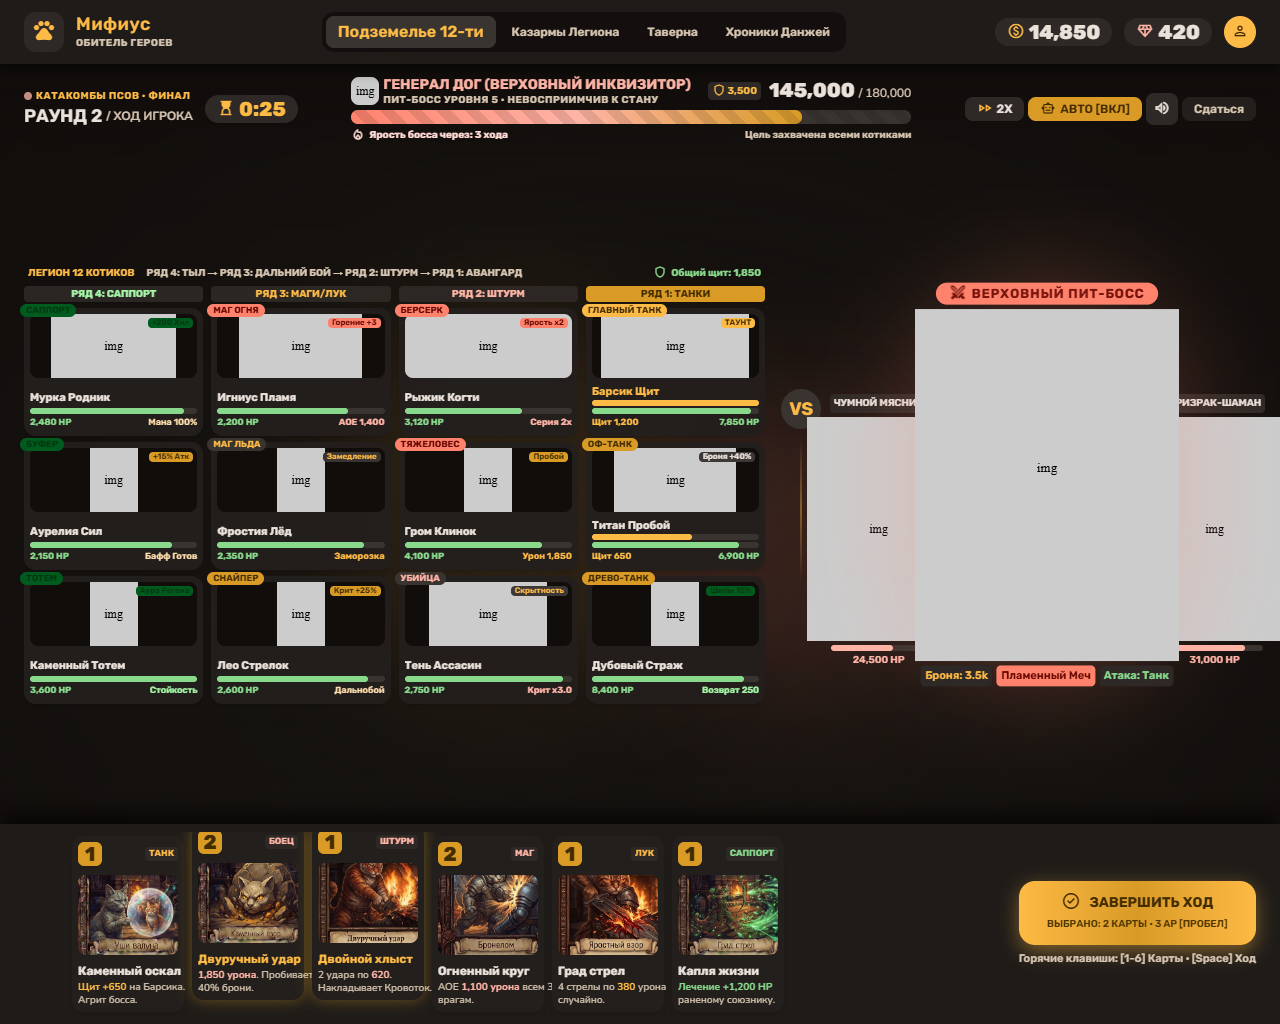
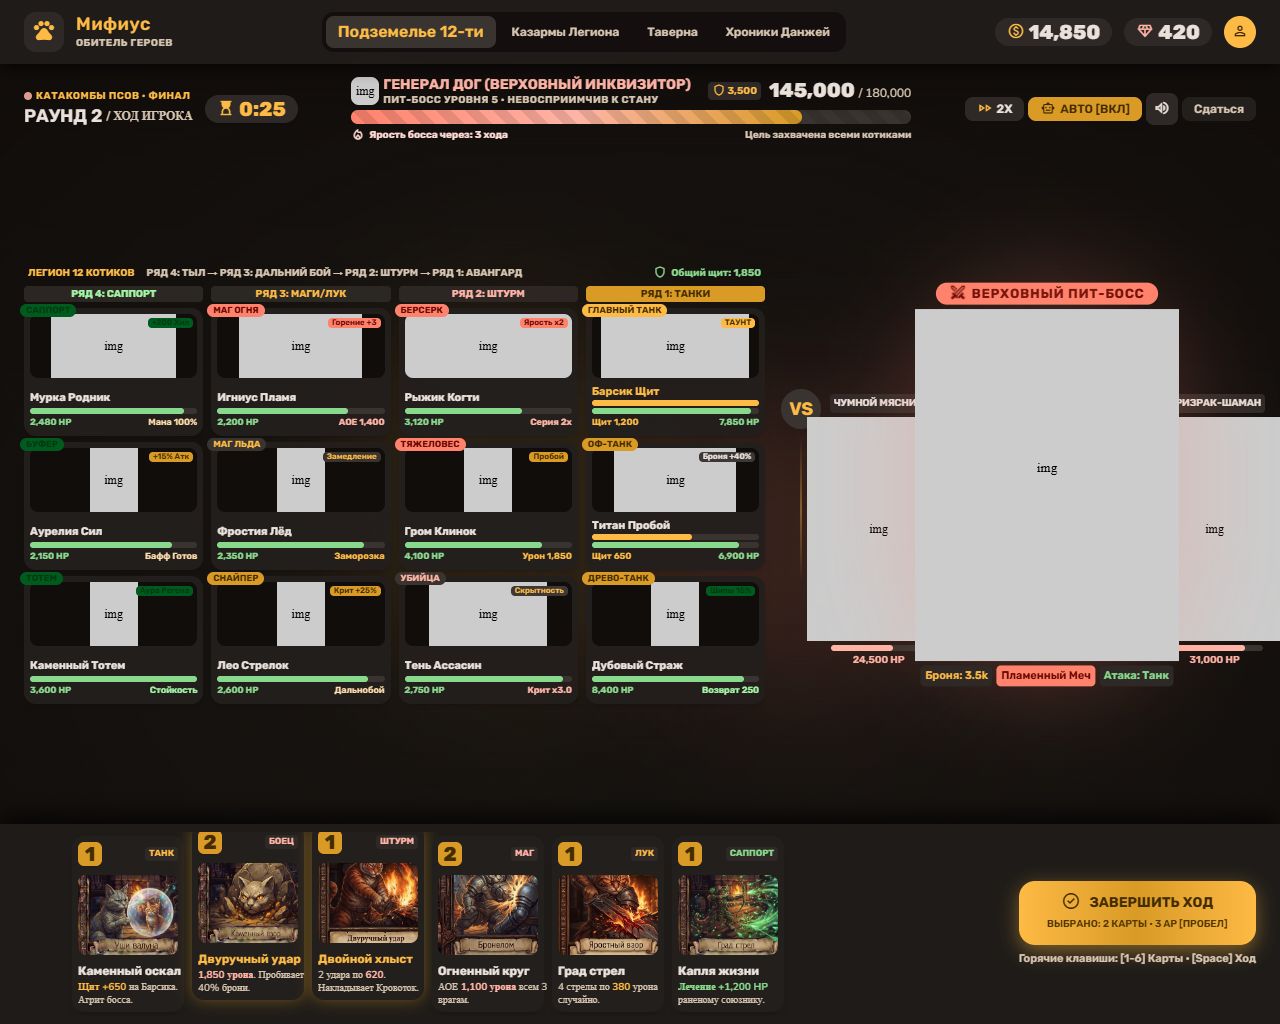
fix(web-hud): enlarge raid legion cards to stitch vertical plates
Match zip etalon: h-32-ish cards with tall art wells for cat cutouts.
Keep shared D-052 end-turn tray unchanged.

diff --git a/client/web-hud/public/styles.css b/client/web-hud/public/styles.css
@@ -5933,7 +5933,8 @@ body:has(#viewRaidBattle:not(.hidden)) #app {
 #viewRaidBattle .raid-battle-12-stage > .relative > main {
   flex: 1 1 auto;
   min-height: 0;
-  overflow: hidden;
+  overflow: auto;
+  align-items: stretch !important;
 }
 #viewRaidBattle .rb-foot.pv-foot {
   flex: 0 0 auto;
@@ -6050,30 +6051,35 @@ body:has(#viewRaidBattle:not(.hidden)) #app {
   gap: 0.55rem;
   width: 100%;
 }
-/* Stitch raid battle: 4 columns (тыл→даль→штурм→танки), painted by JS */
+/* Stitch raid battle: 4 columns · vertical plates (zip etalon h-32 / art h-16+) */
 #viewRaidBattle [data-raid-battle-board] {
   display: grid;
   grid-template-columns: repeat(4, minmax(0, 1fr));
-  gap: 0.35rem 0.4rem;
+  gap: 0.45rem 0.55rem;
   width: 100%;
-  max-width: 26rem;
   align-content: start;
+  /* Don't let tray height crush the 12 plates */
+  overflow-y: auto;
+  max-height: 100%;
+  padding-top: 0.35rem; /* room for role badges */
 }
 #viewRaidBattle .raid-hero-col {
   display: flex;
   flex-direction: column;
-  gap: 0.3rem;
+  gap: 0.45rem;
   min-width: 0;
+  flex-shrink: 0;
 }
 #viewRaidBattle .raid-hero-col-head {
-  padding: 0.15rem 0.35rem;
-  border-radius: 0.35rem;
+  flex: 0 0 auto;
+  padding: 0.2rem 0.4rem;
+  border-radius: 0.4rem;
   text-align: center;
-  font-size: 9px;
+  font-size: 10px;
   font-weight: 800;
   letter-spacing: 0.03em;
   text-transform: uppercase;
-  background: rgba(46, 41, 38, 0.9);
+  background: rgba(46, 41, 38, 0.92);
   color: #d5c4af;
   white-space: nowrap;
   overflow: hidden;
@@ -6089,56 +6095,92 @@ body:has(#viewRaidBattle:not(.hidden)) #app {
 #viewRaidBattle .raid-hero-card {
   position: relative;
   display: flex;
-  flex-direction: row;
-  align-items: center;
-  gap: 0.35rem;
-  padding: 0.28rem 0.35rem;
-  min-height: 2.55rem;
-  border-radius: 0.5rem;
-  background: rgba(26, 22, 19, 0.95);
-  border: 1px solid rgba(157, 143, 123, 0.35);
+  flex-direction: column;
+  justify-content: flex-start;
+  gap: 0.3rem;
+  padding: 0.45rem;
+  /* stitch h-32 — never shrink under the fight tray */
+  height: 8.5rem;
+  min-height: 8.5rem;
+  flex: 0 0 8.5rem;
+  box-sizing: border-box;
+  border-radius: 0.75rem;
+  background: rgba(35, 31, 28, 0.95);
+  border: 1px solid rgba(157, 143, 123, 0.28);
+  box-shadow: 0 4px 12px rgba(0, 0, 0, 0.35);
   color: #eae1db;
   cursor: pointer;
+  transition: transform 0.15s ease;
+}
+#viewRaidBattle .raid-hero-card:hover {
+  transform: scale(1.02);
 }
 #viewRaidBattle .raid-hero-card.is-tank {
   border-color: rgba(253, 186, 69, 0.45);
 }
 #viewRaidBattle .raid-hero-card.is-empty {
+  align-items: center;
   justify-content: center;
   border-style: dashed;
   color: #9d8f7b;
-  font-size: 10px;
-  min-height: 2.35rem;
+  font-size: 11px;
+  opacity: 0.7;
 }
 #viewRaidBattle .raid-hero-badge {
   position: absolute;
-  top: -0.35rem;
+  top: -0.3rem;
   left: -0.2rem;
   z-index: 2;
-  padding: 0.05rem 0.35rem;
+  padding: 0.1rem 0.4rem;
   border-radius: 999px;
-  font-size: 8px;
+  font-size: 9px;
   font-weight: 800;
   text-transform: uppercase;
   line-height: 1.2;
 }
+#viewRaidBattle .raid-hero-art-well {
+  position: relative;
+  width: 100%;
+  /* Bigger cat window than stitch h-16 — cats must read clearly */
+  flex: 1 1 auto;
+  min-height: 5rem;
+  height: 5.25rem;
+  border-radius: 0.5rem;
+  background: #110d0b;
+  overflow: hidden;
+  display: flex;
+  align-items: flex-end;
+  justify-content: center;
+}
 #viewRaidBattle .raid-hero-art {
-  width: 2.15rem;
-  height: 2.15rem;
-  flex: 0 0 auto;
+  height: 100%;
+  width: auto;
+  max-width: 92%;
   object-fit: contain;
   object-position: center bottom;
-  filter: drop-shadow(0 2px 4px rgba(0, 0, 0, 0.45));
+  filter: drop-shadow(0 3px 6px rgba(0, 0, 0, 0.5));
+}
+#viewRaidBattle .raid-hero-sub {
+  position: absolute;
+  top: 0.25rem;
+  right: 0.25rem;
+  padding: 0.05rem 0.3rem;
+  border-radius: 0.25rem;
+  background: rgba(46, 41, 38, 0.9);
+  color: #eae1db;
+  font-size: 8px;
+  line-height: 1.2;
+  text-transform: uppercase;
 }
 #viewRaidBattle .raid-hero-meta {
-  flex: 1 1 auto;
-  min-width: 0;
+  flex: 0 0 auto;
   display: flex;
   flex-direction: column;
-  gap: 0.12rem;
+  gap: 0.15rem;
+  min-width: 0;
 }
 #viewRaidBattle .raid-hero-meta > b {
-  font-size: 10px;
+  font-size: 11px;
   line-height: 1.15;
   white-space: nowrap;
   overflow: hidden;
@@ -6146,7 +6188,7 @@ body:has(#viewRaidBattle:not(.hidden)) #app {
 }
 #viewRaidBattle .raid-hero-hp {
   display: block;
-  height: 0.35rem;
+  height: 0.4rem;
   border-radius: 999px;
   background: #2a241c;
   overflow: hidden;
@@ -6157,10 +6199,17 @@ body:has(#viewRaidBattle:not(.hidden)) #app {
   background: linear-gradient(90deg, #4d9a55, #89d98c);
 }
 #viewRaidBattle .raid-hero-meta > em {
+  display: flex;
+  justify-content: space-between;
+  gap: 0.35rem;
   font-style: normal;
-  font-size: 8px;
+  font-size: 9px;
   color: #9d8f7b;
-  text-transform: uppercase;
+  text-transform: none;
+}
+#viewRaidBattle .raid-hero-meta > em .text-secondary {
+  color: #89d98c;
+  font-weight: 700;
 }
 .raid-form-row,
 .raid-battle-row {

diff --git a/client/web-hud/public/app.js b/client/web-hud/public/app.js
@@ -5815,6 +5815,7 @@ function renderRaidBattleStub() {
   if (bar) bar.style.width = "100%";
 
   // Column order matches Stitch: rear(support) → ranged → melee → front(tanks)
+  // Card chrome = stitch h-32 / art h-16 vertical plates (zip etalon); tray stays D-052.
   const cols = [
     { row: 3, head: "РЯД 4: САППОРТ", headClass: "is-support" },
     { row: 2, head: "РЯД 3: МАГИ/ЛУК", headClass: "is-ranged" },
@@ -5836,11 +5837,14 @@ function renderRaidBattleStub() {
           const tankish = s.role === "tank";
           return `<div class="raid-hero-card${tankish ? " is-tank" : ""}" data-row="${col.row}" data-col="${slotCol}" data-role="${s.role}" data-sub="${s.sub}" data-template="${s.templateId}">
             <span class="raid-hero-badge ${badge.tone}">${badge.label}</span>
-            <img class="raid-hero-art" alt="" src="${art}" decoding="async" loading="lazy"/>
+            <div class="raid-hero-art-well">
+              <img class="raid-hero-art" alt="" src="${art}" decoding="async" loading="lazy"/>
+              <span class="raid-hero-sub">${s.sub || s.role}</span>
+            </div>
             <div class="raid-hero-meta">
               <b>${s.name_ru}</b>
               <span class="raid-hero-hp" aria-hidden="true"><i style="width:100%"></i></span>
-              <em>${s.sub || s.role}</em>
+              <em><span class="text-secondary">готов</span><span>${s.role}</span></em>
             </div>
           </div>`;
         })

diff --git a/client/web-hud/public/index.html b/client/web-hud/public/index.html
@@ -4955,8 +4955,8 @@
 </header>
 <!-- CENTER COMBAT ARENA: 12-FELINE LEGION (LEFT) VS APEX BOSS & GUARDS (RIGHT) -->
 <main class="relative z-10 flex-1 w-full px-margin md:px-margin-tablet py-space-xs flex flex-col lg:flex-row items-center justify-between gap-space-md">
-<!-- LEFT FORMATION: 12 FELINE LEGION (STRICT ORDER: 4 RANKS) -->
-<div class="w-full lg:w-auto lg:max-w-[28rem] flex flex-col gap-1.5 shrink-0">
+<!-- LEFT FORMATION: 12 FELINE LEGION (STRICT ORDER: 4 RANKS) · stitch max-w 62% -->
+<div class="flex-1 w-full lg:max-w-[62%] flex flex-col gap-1.5 min-w-0">
 <!-- ROW HEADER OVERVIEW TABS -->
 <div class="flex items-center justify-between px-space-xs text-on-surface-variant font-label-sm text-label-sm">
 <div class="flex items-center gap-space-md">

diff --git a/client/web-hud/design/stitch-src/raid_battle.html b/client/web-hud/design/stitch-src/raid_battle.html
@@ -71,8 +71,8 @@
 </header>
 <!-- CENTER COMBAT ARENA: 12-FELINE LEGION (LEFT) VS APEX BOSS & GUARDS (RIGHT) -->
 <main class="relative z-10 flex-1 w-full px-margin md:px-margin-tablet py-space-xs flex flex-col lg:flex-row items-center justify-between gap-space-md">
-<!-- LEFT FORMATION: 12 FELINE LEGION (STRICT ORDER: 4 RANKS) -->
-<div class="w-full lg:w-auto lg:max-w-[28rem] flex flex-col gap-1.5 shrink-0">
+<!-- LEFT FORMATION: 12 FELINE LEGION (STRICT ORDER: 4 RANKS) · stitch max-w 62% -->
+<div class="flex-1 w-full lg:max-w-[62%] flex flex-col gap-1.5 min-w-0">
 <!-- ROW HEADER OVERVIEW TABS -->
 <div class="flex items-center justify-between px-space-xs text-on-surface-variant font-label-sm text-label-sm">
 <div class="flex items-center gap-space-md">

diff --git a/client/web-hud/public/stitch/raid_battle.html b/client/web-hud/public/stitch/raid_battle.html
@@ -71,8 +71,8 @@
 </header>
 <!-- CENTER COMBAT ARENA: 12-FELINE LEGION (LEFT) VS APEX BOSS & GUARDS (RIGHT) -->
 <main class="relative z-10 flex-1 w-full px-margin md:px-margin-tablet py-space-xs flex flex-col lg:flex-row items-center justify-between gap-space-md">
-<!-- LEFT FORMATION: 12 FELINE LEGION (STRICT ORDER: 4 RANKS) -->
-<div class="w-full lg:w-auto lg:max-w-[28rem] flex flex-col gap-1.5 shrink-0">
+<!-- LEFT FORMATION: 12 FELINE LEGION (STRICT ORDER: 4 RANKS) · stitch max-w 62% -->
+<div class="flex-1 w-full lg:max-w-[62%] flex flex-col gap-1.5 min-w-0">
 <!-- ROW HEADER OVERVIEW TABS -->
 <div class="flex items-center justify-between px-space-xs text-on-surface-variant font-label-sm text-label-sm">
 <div class="flex items-center gap-space-md">
